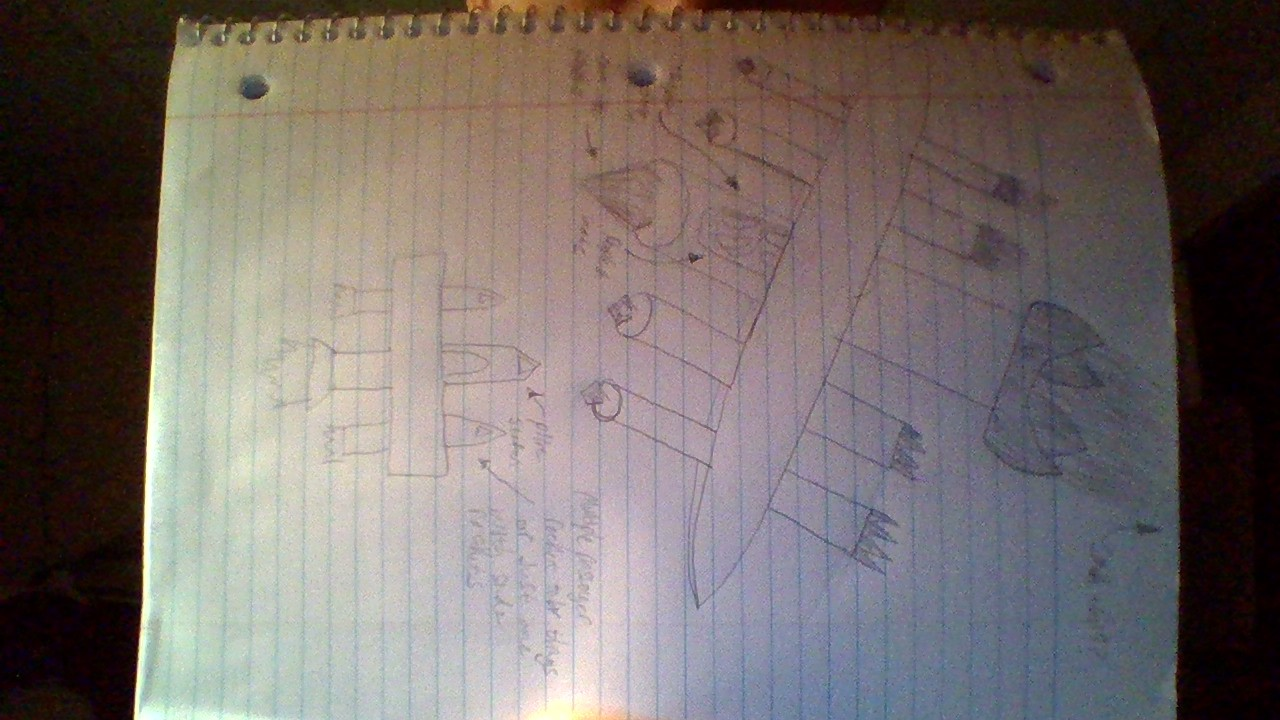
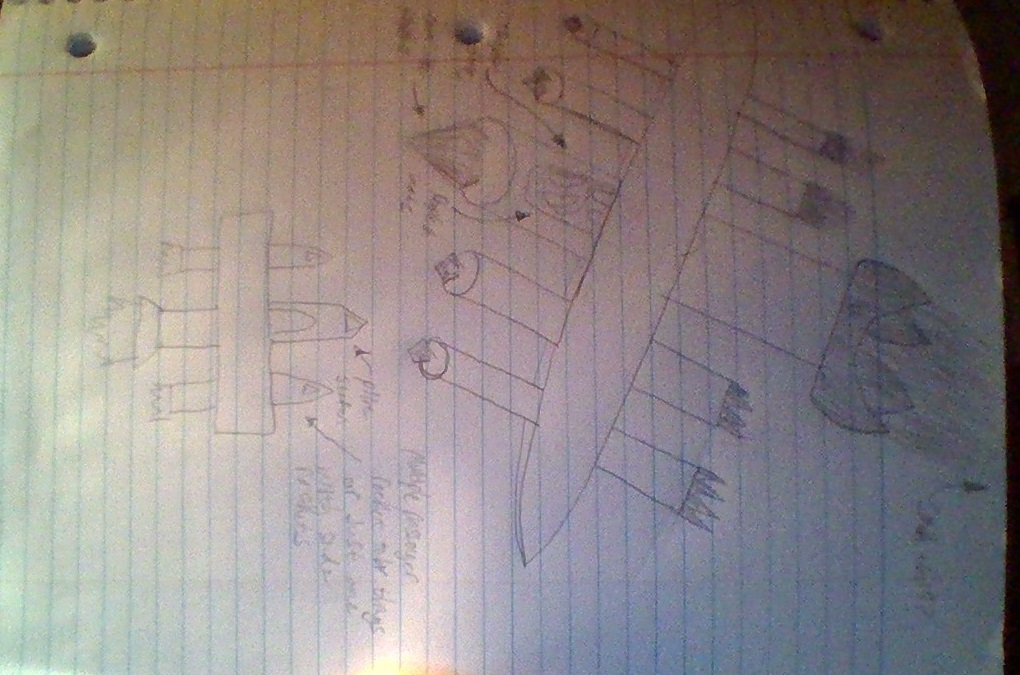
Uploaded videos
Added the videos to youtube and embedded them here. Also cropped the
sketch image.

diff --git a/Plane.html b/Plane.html
@@ -33,13 +33,16 @@
 		<img src = "mcrombie.github.io/images/Wire5.jpg" width="560" height="315">
 		
 		
-		<h3>Explosions upon laser impact</h3>
+		
 		<img src = "mcrombie.github.io/images/Explosion.jpg" width="560" height="315">
 	</div>
 </body>
 
-		<h3>Solar System animation with Atmospheres and Death Star</h3>
-<p><iframe width="560" height="315" src="https://www.youtube.com/embed/kLAYZXBwric" frameborder="0" allowfullscreen></iframe></p></center>
+		<h3>Turntable of Smooth Model</h3>
+<p><iframe width="560" height="315" src="https://www.youtube.com/embed/Gkhri_uZGtw" frameborder="0" allowfullscreen></iframe></p></center>
+
+		<h3>Turntable of Wireframe Model</h3>
+<p><iframe width="560" height="315" src="https://www.youtube.com/embed/J7_lVmA-wJ8" frameborder="0" allowfullscreen></iframe></p></center>
 
 
 
